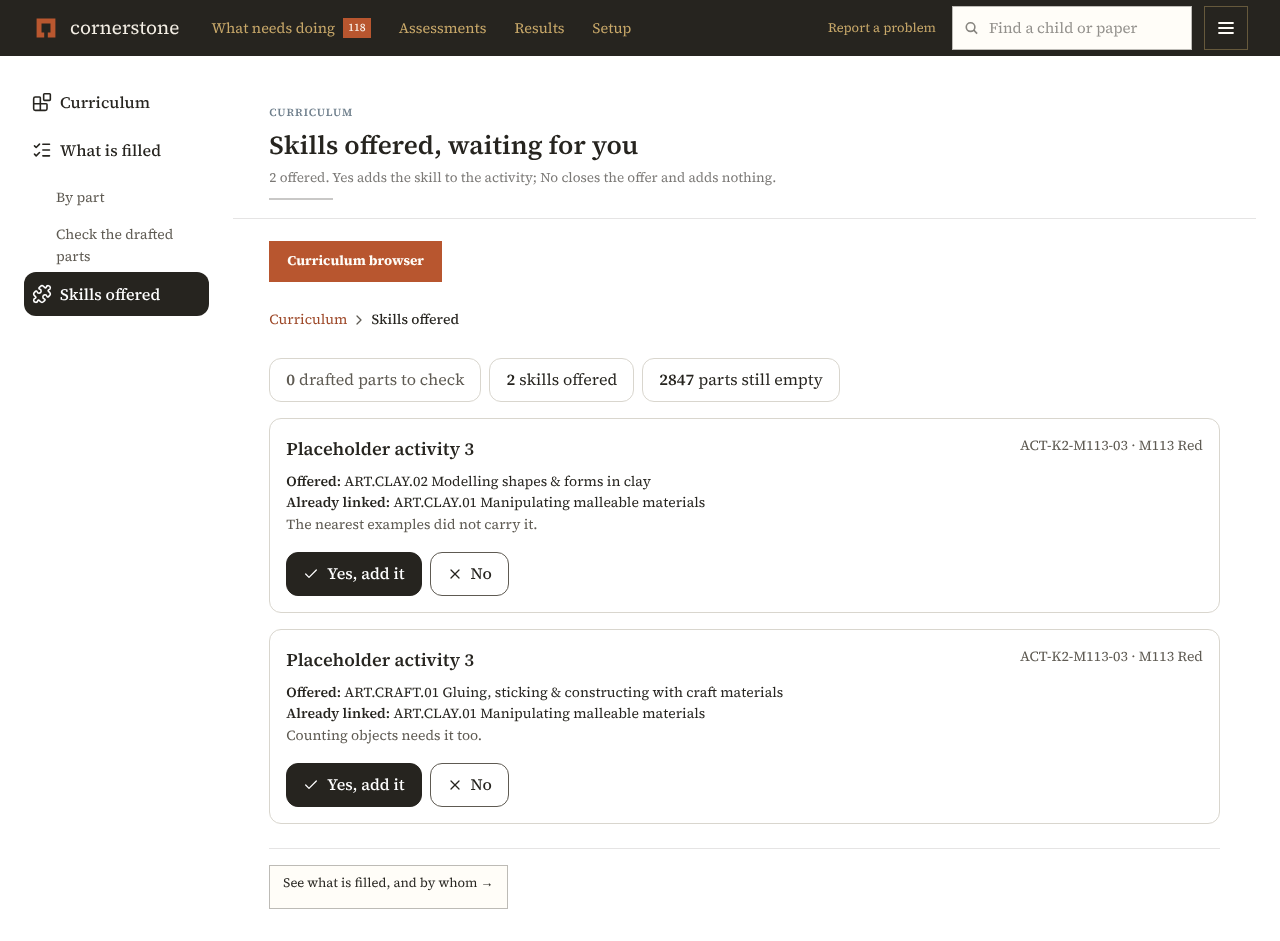
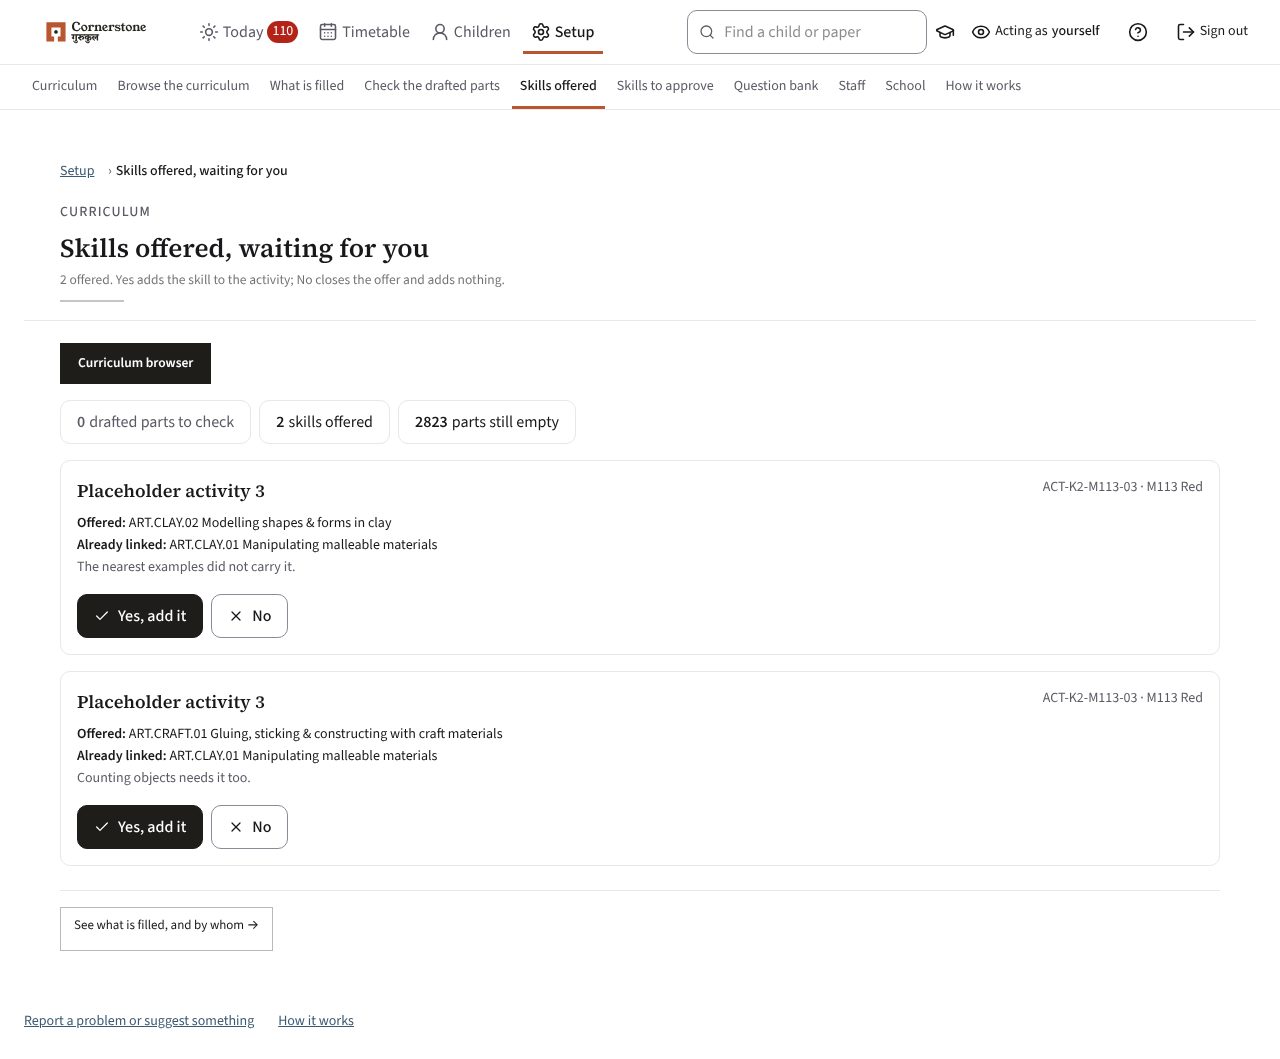
UI-11: shared bank actions keep the old library pages as they were; the note says what is built and what is held
Claude-Session: https://claude.ai/code/session_01KEBF29YZNfopJu44RYs7Kw

diff --git a/apps/web/app/(app)/library/actions.ts b/apps/web/app/(app)/library/actions.ts
@@ -8,19 +8,24 @@ import { EngineDown, engineSend } from "@/lib/engine";
 // Any staff member, any question, one line of reason. The engine retires it and, in the same
 // transaction, the worksheets it was on — dealing new ones — so no worksheet ever holds a question
 // that has left the bank (ADR 0026). If the engine cannot be reached, nothing has changed.
+/** Where a form sends the person back to: the old library, or, when the form says so, the Question bank screen (UI-11). */
+const baseOf = (f: FormData) => (f.get("base") === "/setup/question-bank" ? "/setup/question-bank" : "/library");
+
 export async function flagItem(formData: FormData): Promise<void> {
   const me = await deciding("questions");
+  const base = baseOf(formData);
   const itemKey = String(formData.get("item_key") ?? "");
   const note = String(formData.get("note") ?? "").trim().slice(0, 300);
-  const back = String(formData.get("back") ?? "/setup/question-bank");
-  if (!/^[A-Za-z0-9._-]+$/.test(itemKey) || !/^\/setup\/question-bank(\/|\?|$)/.test(back)) redirect("/setup/question-bank");
+  const back = String(formData.get("back") ?? base);
+  if (!/^[A-Za-z0-9._-]+$/.test(itemKey) || !back.startsWith(base) || !/^\/(library|setup\/question-bank)(\/|\?|$)/.test(back)) redirect(base);
   let next = back;
   try {
     const res = await engineSend(`/bank/item/${itemKey}/remove`, { by: me.email, note });
-    if (!res.ok) next = `/setup/question-bank/${itemKey}?error=${encodeURIComponent("That question could not be removed. Nothing was changed.")}`;
+    if (!res.ok) next = `${base}/${itemKey}?error=${encodeURIComponent("That question could not be removed. Nothing was changed.")}`;
   } catch (e) {
-    next = `/setup/question-bank/${itemKey}?error=${encodeURIComponent(e instanceof EngineDown ? e.message : "The engine could not be reached. Nothing was changed.")}`;
+    next = `${base}/${itemKey}?error=${encodeURIComponent(e instanceof EngineDown ? e.message : "The engine could not be reached. Nothing was changed.")}`;
   }
+  revalidatePath("/library");
   revalidatePath("/setup/question-bank");
   revalidatePath("/worksheets");
   revalidatePath("/");
@@ -32,9 +37,10 @@ export async function flagItem(formData: FormData): Promise<void> {
 // in the engine's own words and is shown on the question's page; nothing has changed.
 export async function correctItem(formData: FormData): Promise<void> {
   const me = await deciding("questions");
+  const base = baseOf(formData);
   const key = String(formData.get("item_key") ?? "");
-  if (!/^[A-Za-z0-9._-]+$/.test(key)) redirect("/setup/question-bank");
-  let next = `/setup/question-bank/${key}`;
+  if (!/^[A-Za-z0-9._-]+$/.test(key)) redirect(base);
+  let next = `${base}/${key}`;
   try {
     const res = await engineSend(`/bank/item/${key}/correct`, {
       stem: String(formData.get("stem") ?? "").slice(0, 600),
@@ -43,11 +49,12 @@ export async function correctItem(formData: FormData): Promise<void> {
     });
     const body = (await res.json()) as { item_key?: string; detail?: unknown };
     next = res.ok
-      ? `/setup/question-bank/${body.item_key}?corrected=1`
+      ? `${base}/${body.item_key}?corrected=1`
       : `${next}?error=${encodeURIComponent(typeof body.detail === "string" ? body.detail : "That wording could not be saved. Nothing was changed.")}`;
   } catch (e) {
     next = `${next}?error=${encodeURIComponent(e instanceof EngineDown ? e.message : "The engine could not be reached. Nothing was changed.")}`;
   }
+  revalidatePath("/library");
   revalidatePath("/setup/question-bank");
   redirect(next);
 }
@@ -60,20 +67,20 @@ export async function decideProposal(formData: FormData): Promise<void> {
   const me = await deciding("questions");
   const id = String(formData.get("id") ?? "");
   const verdict = VERDICTS.find((v) => v === formData.get("verdict"));
-  if (!/^[0-9a-f-]{36}$/.test(id) || !verdict) redirect("/setup/question-bank");
+  if (!/^[0-9a-f-]{36}$/.test(id) || !verdict) redirect("/library");
   // a mistake adopted is named by the person adopting it; the engine refuses one without a name
   const note = String(formData.get("name") ?? "").trim().slice(0, 300);
-  let next = "/setup/question-bank";
+  let next = "/library";
   try {
     const res = await engineSend(`/bank/proposal/${id}/decide`, { verdict, by: me.email, note });
     if (!res.ok) {
       const why = ((await res.json().catch(() => ({}))) as { detail?: string }).detail ?? "it could not be decided";
-      next = `/setup/question-bank?error=${encodeURIComponent(`Nothing was changed: ${why}.`)}`;
+      next = `/library?error=${encodeURIComponent(`Nothing was changed: ${why}.`)}`;
     }
   } catch (e) {
-    next = `/setup/question-bank?error=${encodeURIComponent(e instanceof EngineDown ? e.message : "The engine could not be reached. Nothing was changed.")}`;
+    next = `/library?error=${encodeURIComponent(e instanceof EngineDown ? e.message : "The engine could not be reached. Nothing was changed.")}`;
   }
-  revalidatePath("/setup/question-bank");
+  revalidatePath("/library");
   revalidatePath("/worksheets");
   redirect(next);
 }

diff --git a/apps/web/app/(app)/setup/question-bank/[key]/page.tsx b/apps/web/app/(app)/setup/question-bank/[key]/page.tsx
@@ -105,6 +105,7 @@ export default async function QuestionScreen({ params, searchParams }: Props) {
         <form action={correctItem} className="mb-4 grid max-w-[640px] gap-3" data-block="Form">
           <h2 className="text-[16px]">Correct the wording</h2>
           <input type="hidden" name="item_key" value={it.item_key} />
+          <input type="hidden" name="base" value={BANK} />
           <label className="field">
             <span className="label">The wording (required)</span>
             <textarea className="textarea min-h-[90px]" name="stem" defaultValue={it.stem} maxLength={600} required />
@@ -121,6 +122,7 @@ export default async function QuestionScreen({ params, searchParams }: Props) {
         <form action={flagItem} className="mb-4 grid max-w-[640px] gap-3" data-block="Form">
           <h2 className="text-[16px]">Remove it</h2>
           <input type="hidden" name="item_key" value={it.item_key} />
+          <input type="hidden" name="base" value={BANK} />
           <input type="hidden" name="back" value={`${BANK}/${it.item_key}`} />
           <label className="field">
             <span className="label">Reason for removal (required)</span>

diff --git a/docs/notes/UI-11.md b/docs/notes/UI-11.md
@@ -1,19 +1,29 @@
 # UI-11: setup content screens (curriculum, skills to approve, question bank, a question)
 
-Branch `ui-11-setup-content`, issue #522. Scope: `specs/UI-11/spec.md`. Tests: `apps/web/tests/u74-setup-content.spec.ts`.
+Branch `ui-11-setup-content`, issue #522, PR #582 (draft). Scope: `specs/UI-11/spec.md`. Tests: `apps/web/tests/u74-setup-content.spec.ts` (13, pass on a local copy built with `bin/testdb fresh`). Open points: issue #585.
 
 ## State (10 Nov 2026)
 
-- Skills to approve, `/setup/skills/approve`: built on Screen, FilterBar, DataTable, Details, KindTile, Rail. The eyebrow is the count of what waits.
-  Approve is one form per row (the old `approveSkills` action, `only`). The "Levels to review" tab is the old levels page's body (`levels-tab.tsx`).
-- Not yet: Curriculum, Question bank, one question, the 308 folds, `drive` hints, `UI-11` in `merged_slices`.
+Built, on the frame and the blocks, old pages untouched:
+- `/setup/curriculum`: one list (K2 activities and grade 1 to 4 skills) under one filter row; drafts card and the main action; offers table with Yes / No per row.
+- `/setup/skills/approve`: eyebrow is the count; Approve per row (`approveSkills`, `only`); Levels-to-review tab (the old page's body, `levels-tab.tsx`); the charges fold.
+- `/setup/question-bank`: ten rows then pages; statistics behind a fold (by grade and level).
+- `/setup/question-bank/[key]`: card trio, About fold, Correct the wording (needs a reason, the engine refuses without), Remove (reason required).
+The inventory (`screens.json`) entries are rewritten for these four and `tests/inventory-fixtures.ts` gives the checker a taught class, the K2 gate open, two offers and a question key. With `UI-11` set in `merged_slices` locally, the generic checks pass for all four screens at 1440 and 400; what still fails is only "the effect of a button is not yet drivable" (needs PR #578's `drive` hints).
+
+Not done: the 308 folds (see #585: they would drop controls no element lists), the `drive` hints, `UI-11` in `merged_slices` (must be the last commit).
 
 ## Decisions
 
 | Choice | Reason |
 |---|---|
-| The first row's Approve button carries `data-ux="action"` and the screen passes no `action`. | The element list has no separate main action, so the main action is one of the listed controls (as UI-4 did). |
-| `approveSkills`' return-address pattern accepts `/setup/skills/approve`. | The action is shared with the old page until its 308 lands. |
+| The first row's Approve / Open link carries `data-ux="action"`; the screen passes no `action`. | The element list has no separate main action, so it is one of the listed controls (as UI-4 did). |
+| Curriculum asks the K2 gate softly (`gateFor`): closed means the skills only, not a 404. | The screen holds more than the K2 pages; a closed K2 gate must not hide the skills. |
+| Yes / No and Approve carry the row's name as hidden text. | The inventory keys controls by text and place, so identical buttons collide; a screen reader gains the name too. |
+| `FilterBar` selects take `max-w-full`. | A long skill name in a dropdown pushed the page sideways at 400 px. |
+| `Cards` takes an optional `body` and an optional link. | The question's cards hold a picture and a table; no block fitted, and this is the same block. |
+| The shared bank actions take a `base` field. | The old library pages stay live until the folds are ruled on, and must keep redirecting to themselves. |
+| Statistics are by grade and level, not by skill. | A second paged table inside the fold would be a control the list does not name. |
 
-## Open points for the orchestrator
-- Skills to approve: the old page also had "Approve this table as written" (what a wrong answer counts against) and the Levels tab has "I've looked at this"; neither is in the element list. They are left out of the page until the list says so (nothing is silently dropped: the old routes stay live).
+## Left out on purpose (nothing deleted: the old routes are live)
+Bank proposals (remove / keep / adopt), "Approve this table", the worksheet library and taxonomy, `/asks`. Issue #585.
